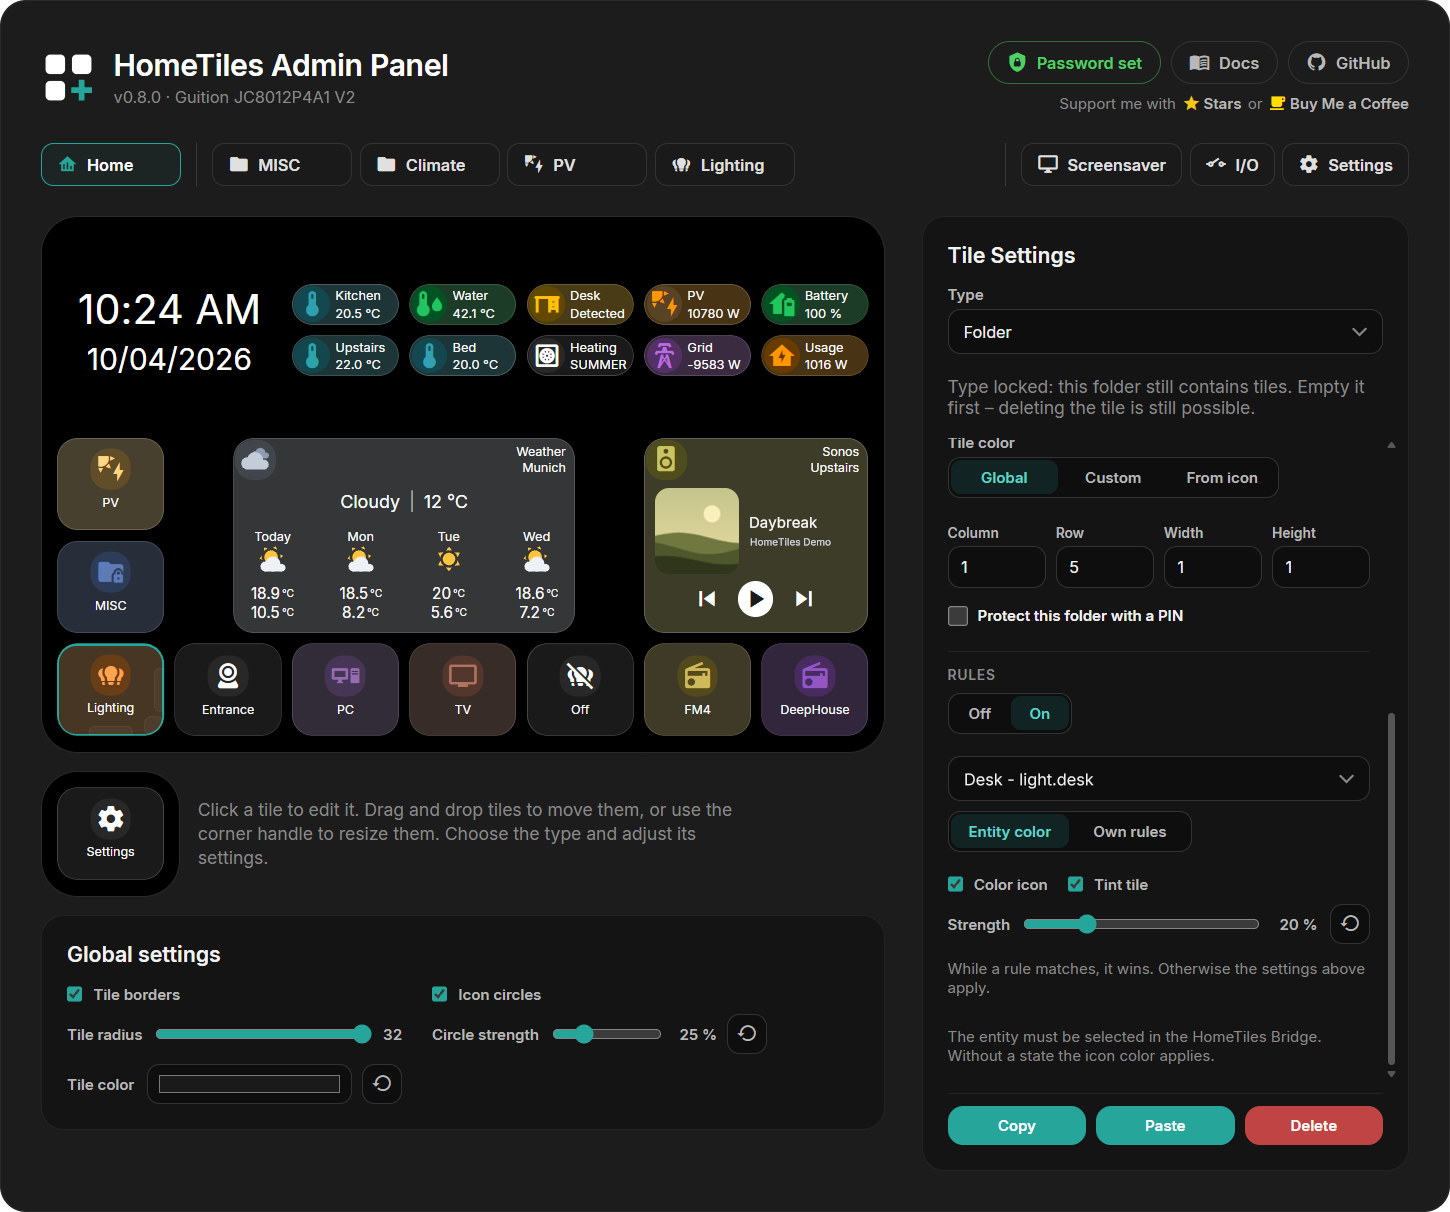
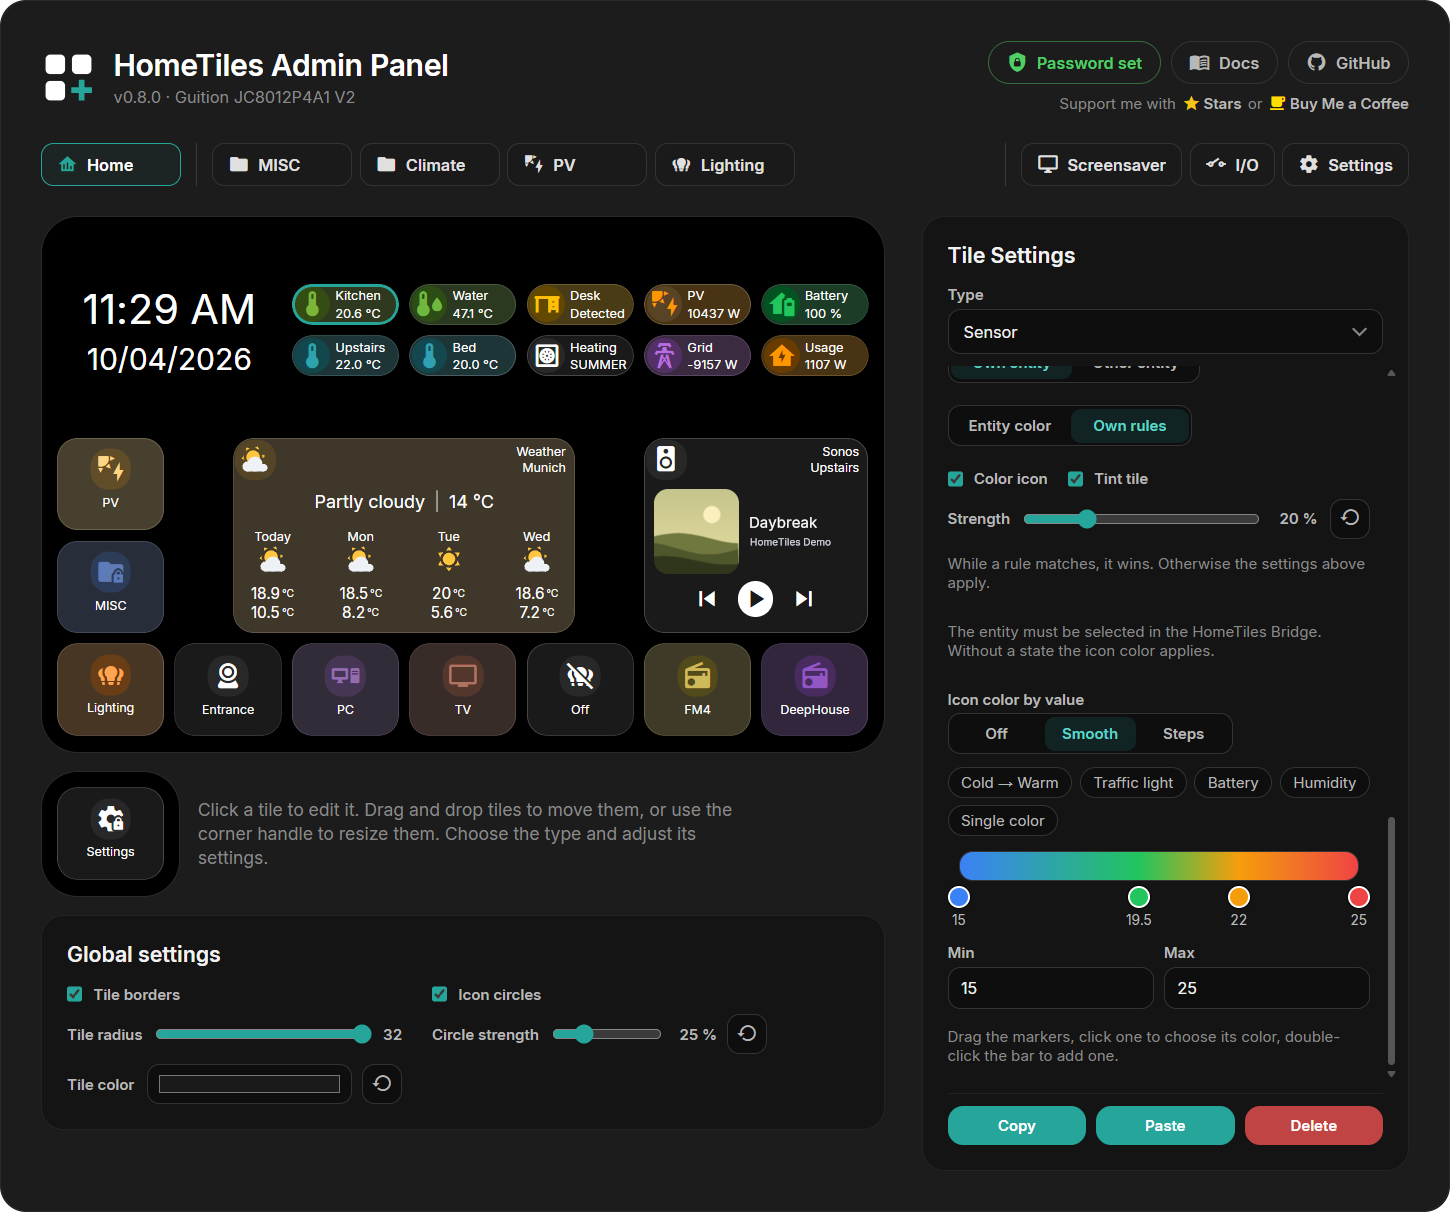
Use the sensor color rules in the README Web Admin image

diff --git a/README.md b/README.md
@@ -33,7 +33,7 @@ Every tile opens a popup with its controls and history.
 
 Build the dashboard in the browser; the Web Admin preview matches the display.
 
-<img src="docs/images/readme-webadmin-v080.png" alt="Web Admin with the live preview and the rules that tint the Lighting folder in the desk light's color" width="100%">
+<img src="docs/images/readme-webadmin-v080.png" alt="Web Admin with the live preview and the color rules of the Kitchen sensor" width="100%">
 
 ## New in v0.8.0
 
